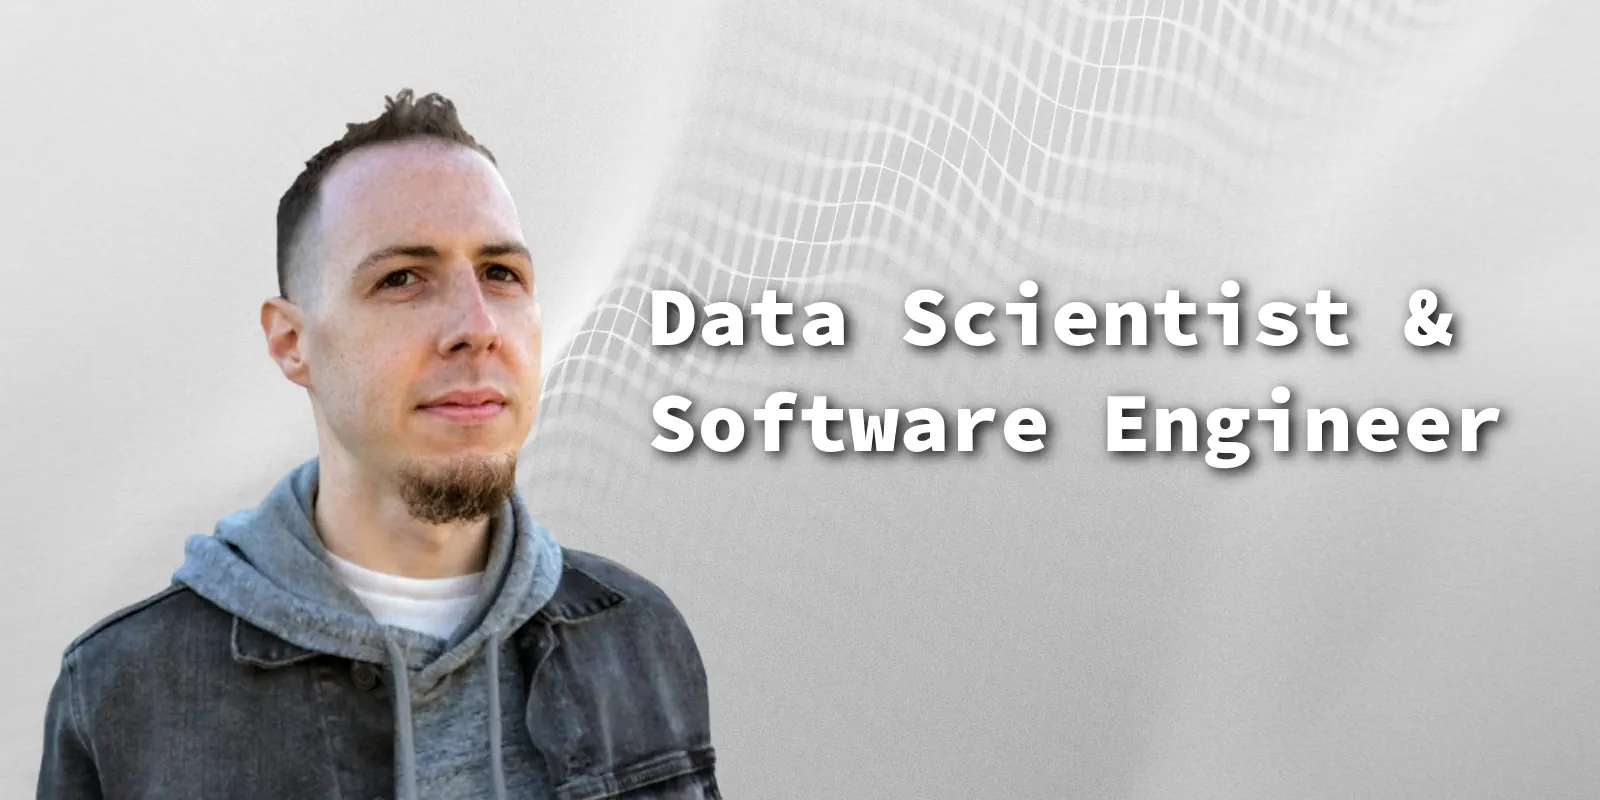
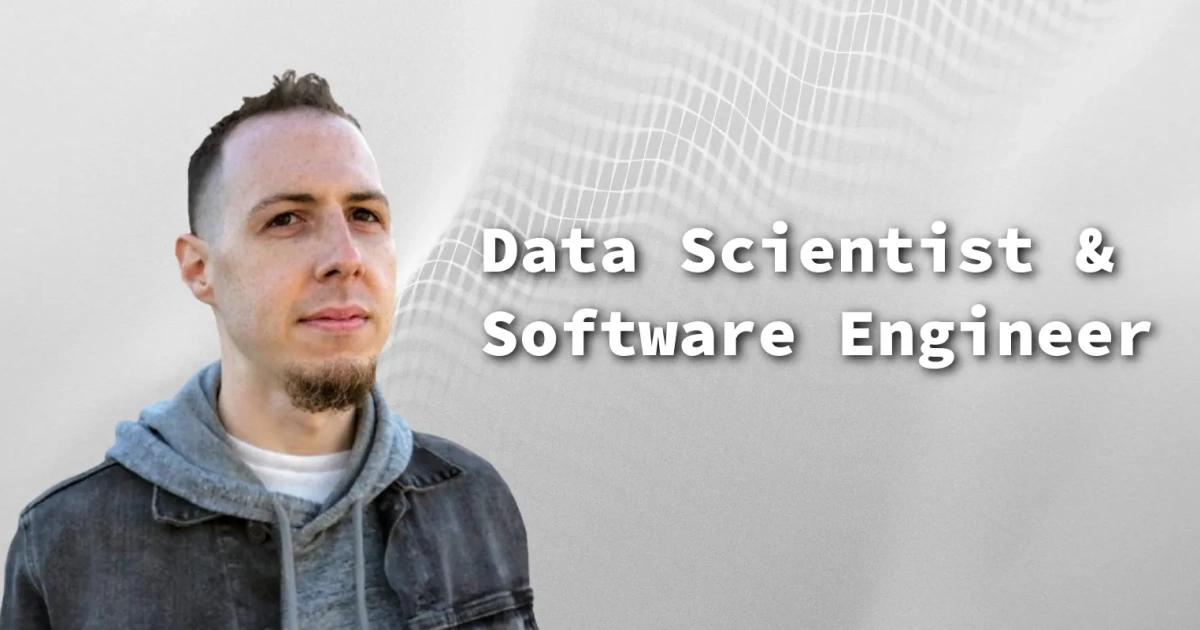
Adjust titles and descriptions for SEO

diff --git a/src/site.ts b/src/site.ts
@@ -1,2 +1,2 @@
-export const siteTitle = "Travis Horn";
-export const siteDescription = "I'm a Data Scientist & Software Engineer. I have a passion for discovering and working with cutting-edge technology. I enjoy collaborating with others to solve problems.";
+export const siteTitle = "Travis Horn - Data Scientist and Software Engineer";
+export const siteDescription = "I'm a Data Scientist & Software Engineer passionate about cutting-edge technology. I collaborate with teams to solve complex problems through code.";

diff --git a/README.md b/README.md
@@ -59,5 +59,5 @@ COPYRIGHT HOLDERS BE LIABLE FOR ANY CLAIM, DAMAGES OR OTHER LIABILITY, WHETHER
 IN AN ACTION OF CONTRACT, TORT OR OTHERWISE, ARISING FROM, OUT OF OR IN
 CONNECTION WITH THE SOFTWARE OR THE USE OR OTHER DEALINGS IN THE SOFTWARE.
 
-All blog content is licensed under [the CC BY-SA 4.0
+All blog content is copyright Travis Horn, licensed under [the CC BY-SA 4.0
 license](https://creativecommons.org/licenses/by-sa/4.0/).
